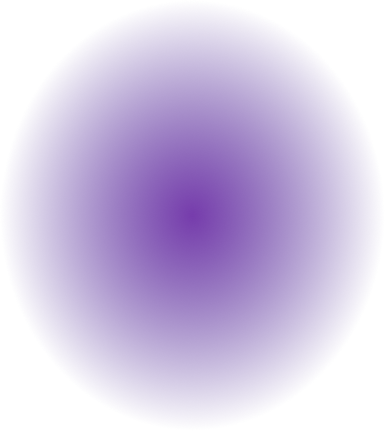
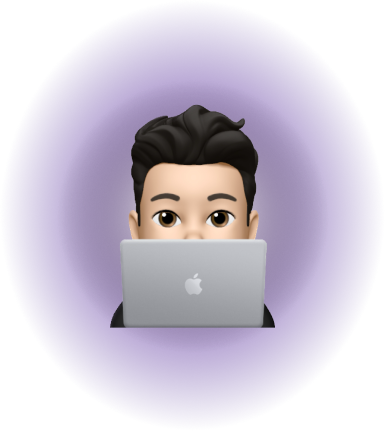
changed images

Changed region(s): [[0.2182, 0.2413, 0.7792, 0.7842]]

diff --git a/lib/Components/Header/Header.dart b/lib/Components/Header/Header.dart
@@ -1,4 +1,5 @@
 import 'package:flutter/material.dart';
+import 'package:portfolio/Components/Header/Desktop/DesktopAvatar.dart';
 
 class Header extends StatefulWidget {
   const Header({Key? key}) : super(key: key);
@@ -54,29 +55,9 @@ class _HeaderState extends State<Header> {
                   image: AssetImage('images/Vector.png'),
                 ),
               ),
+              DesktopAvatar(),
               Positioned(
-                left: MediaQuery.of(context).size.width / 9.4,
-                top: 50,
-                child: Image(
-                  image: AssetImage('images/Gradient.png'),
-                ),
-              ),
-              Positioned(
-                left: MediaQuery.of(context).size.width / 6.3,
-                top: 150,
-                child: Image(
-                  image: AssetImage('images/grad1.png'),
-                ),
-              ),
-              Positioned(
-                left: MediaQuery.of(context).size.width / 5.4,
-                top: 140,
-                child: Image(
-                  image: AssetImage('images/image 1.png'),
-                ),
-              ),
-              Positioned(
-                left: MediaQuery.of(context).size.width>1660?MediaQuery.of(context).size.width / 3.3:MediaQuery.of(context).size.width>1200?MediaQuery.of(context).size.width / 2.8:MediaQuery.of(context).size.width>990?MediaQuery.of(context).size.width / 2.5:MediaQuery.of(context).size.width / 2,
+                left: MediaQuery.of(context).size.width / 3.3,
                 top: 140,
                 child: Container(
                   child: Column(
@@ -88,7 +69,7 @@ class _HeaderState extends State<Header> {
                           color: Color(0xFFFFFFFF),
                           letterSpacing: 0.5,
                           fontWeight: FontWeight.w400,
-                          fontSize: 17.0,
+                          fontSize: 12.0,
                           fontFamily: 'Preahvihear',
                           decoration: TextDecoration.underline,
                           fontStyle: FontStyle.normal,

diff --git a/lib/main.dart b/lib/main.dart
@@ -13,22 +13,11 @@ class MyApp extends StatelessWidget {
   @override
   Widget build(BuildContext context) {
     return MaterialApp(
-      builder: (context, child) => ResponsiveWrapper.builder(
-        child,
-        maxWidth: 1285.60,
-        minWidth: 150,
-        defaultScale: true,
-        breakpoints: [
-          ResponsiveBreakpoint.autoScale(480, name: MOBILE),
-          ResponsiveBreakpoint.autoScale(820, name: TABLET),
-          ResponsiveBreakpoint.autoScale(1000, name: DESKTOP),
-        ],
-        background: Container(color: Color(0xFF1A0B2E)),
+      home: Scaffold(
+        body: Header(),
+        backgroundColor:Color(0xFF1A0B2E),
       ),
-      initialRoute: "/",
-      routes: {
-        '/': (context) => const Header(),
-      },
+
     );
   }
 }

diff --git a/lib/Components/Header/Desktop/DesktopAvatar.dart b/lib/Components/Header/Desktop/DesktopAvatar.dart
@@ -1,0 +1,22 @@
+import 'package:flutter/material.dart';
+
+class DesktopAvatar extends StatefulWidget {
+  const DesktopAvatar({Key? key}) : super(key: key);
+
+  @override
+  _DesktopAvatarState createState() => _DesktopAvatarState();
+}
+
+class _DesktopAvatarState extends State<DesktopAvatar> {
+  @override
+  Widget build(BuildContext context) {
+    return Positioned(
+      left: MediaQuery.of(context).size.width<470?MediaQuery.of(context).size.width/5:MediaQuery.of(context).size.width / 7.4,
+      top: 50,
+      child: Image(
+        height: 300,
+        image: AssetImage('images/Gradient.png'),
+      ),
+    );
+  }
+}
